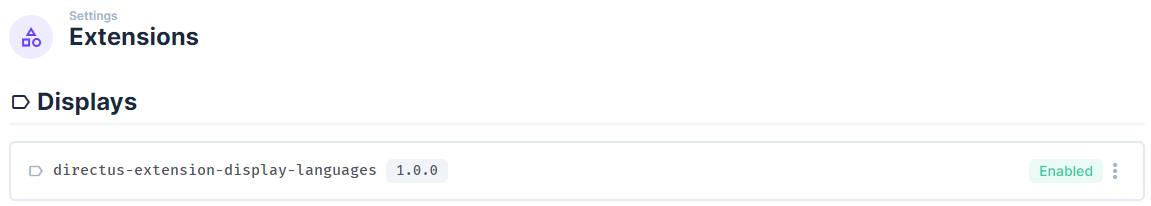
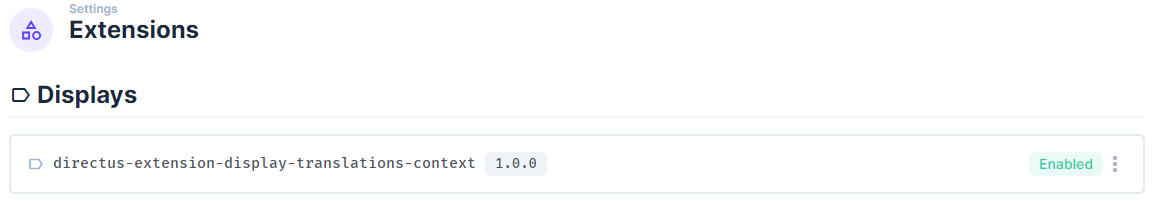
Initial commit of the Directus extension for displaying translations context.

diff --git a/README.md b/README.md
@@ -1,103 +1,33 @@
-# Directus Translations Context Display
+![Démonstration de l'extension](docs/screenshots/directus-extension-display-translations-context-table.png)
 
-Une extension d'affichage optimisée pour le contenu multilingue dans Directus.
+# Directus Display Translations Context
+
+L'extension "Directus Translations Context Display" est une extension d'affichage optimisée pour le contenu multilingue dans Directus. Elle permet d'afficher automatiquement le contenu traduit dans l'interface d'administration de Directus en fonction de critères de sélection de langue avancés.
+
+Cette extension est particulièrement utile pour les projets multilingues où le contenu est traduit dans plusieurs langues et où vous souhaitez afficher automatiquement la traduction correspondant à un pays ou une langue spécifique en provenance d'une autre collection.
 
 ![Extension installée](docs/screenshots/directus-extension-display-translations-context-extensions.png)
 
 ## Table des matières
 
-- [Introduction](#introduction)
 - [Fonctionnalités principales](#fonctionnalités-principales)
-- [Prérequis](#prérequis)
-  - [Collection Languages](#1-collection-languages)
-  - [Collection Countries](#2-collection-countries)
-  - [Collection Pages_Base](#3-collection-pages_base)
-  - [Collection Pages](#4-collection-pages)
-  - [Collection de traductions](#5-collection-de-traductions)
 - [Installation](#installation)
   - [Étapes d'installation](#étapes-dinstallation)
   - [Arborescence des dossiers](#arborescence-des-dossiers)
 - [Configuration](#configuration)
   - [Options principales](#options-principales)
+- [Prérequis](#prérequis)
+  - [Collection Languages](#1-collection-languages)
+  - [Collection Countries](#2-collection-countries)
+  - [Votre collection exemple Pages](#4-collection-pages)
+  - [Votre collection exemple Pages_translations || Pages_Base](#3-collection-pages_base)
+  - [Directus setting translation](#5-collection-de-traductions)
 - [Utilisation](#utilisation)
   - [Cas d'utilisation typique](#cas-dutilisation-typique)
   - [Personnalisation de l'affichage](#personnalisation-de-laffichage)
   - [Exemples de configuration](#exemples-de-configuration)
 - [Fonctionnement technique](#fonctionnement-technique)
   - [Architecture](#architecture)
-
-## Introduction
-
-L'extension "Directus Translations Context Display" est une extension d'affichage optimisée pour le contenu multilingue dans Directus. Elle permet d'afficher automatiquement le contenu traduit dans l'interface d'administration de Directus en fonction de critères de sélection de langue avancés.
-
-Cette extension est particulièrement utile pour les projets multilingues où le contenu est traduit dans plusieurs langues et où vous souhaitez afficher automatiquement la traduction correspondant à un pays ou une langue spécifique.
-
-![Démonstration de l'extension](docs/screenshots/directus-extension-display-translations-context-table.png)
-
-## Prérequis
-
-Pour utiliser pleinement cette extension, vous devez configurer les collections suivantes dans votre projet Directus :
-
-### 1. Collection Languages
-
-Cette collection stocke les langues disponibles dans votre système.
-
-![Collection de langues](docs/screenshots/directus-extension-display-translations-context-language-collection.png)
-
-**Champs recommandés :**
-
-- `code` : Code de langue (ex: fr-FR, en-US)
-- `name` : Nom de la langue
-- `active` : État d'activation
-
-![Champs de la collection languages](docs/screenshots/directus-extension-display-translations-context-languages-collection-fields.png)
-
-### 2. Collection Countries
-
-Cette collection stocke les pays et leurs paramètres régionaux.
-
-![Collection de pays](docs/screenshots/directus-extension-display-translations-context-country-collection.png)
-
-**Champs recommandés :**
-
-- `code` : Code du pays (ex: FR, US)
-- `name` : Nom du pays
-- `defaultLanguage` : Relation vers la langue par défaut pour ce pays
-
-![Champs de la collection countries](docs/screenshots/directus-extension-display-translations-context-countries-collection-fields.png)
-
-### 3. Collection Pages_Base
-
-Cette collection sert de modèle pour les pages traduisibles.
-
-![Champs de la collection pages_base](docs/screenshots/directus-extension-display-translations-context-pages_base-collection-fields.png)
-
-**Champs recommandés :**
-
-- `country_code` : Relation vers un pays
-- Autres champs spécifiques à votre contenu
-
-### 4. Collection Pages
-
-Cette collection contient les pages avec leurs traductions.
-
-![Collection de pages](docs/screenshots/directus-extension-display-translations-context-pages-collection-fields.png)
-
-**Champs recommandés :**
-
-- `translations` : Champ de type "translations" lié à la collection de traductions
-- Autres champs spécifiques à votre contenu
-
-### 5. Collection de traductions
-
-Cette collection stocke les traductions pour chaque élément traduisible.
-
-![Collection de traductions](docs/screenshots/directus-extension-display-translations-context-translations-collection.png)
-
-**Champs recommandés :**
-
-- `languages_code` : Relation vers une langue
-- `title`, `description`, etc. : Champs contenant le contenu traduit
 
 ## Fonctionnalités principales
 
@@ -218,6 +148,71 @@ Lors de la configuration de l'extension dans l'interface Directus, vous disposez
 
    - Active/désactive le menu de sélection de langue
    - Permet aux utilisateurs de voir toutes les traductions disponibles
+
+## Prérequis
+
+Pour utiliser pleinement cette extension, vous devez configurer les collections suivantes dans votre projet Directus :
+
+### 1. Collection Languages
+
+Cette collection stocke les langues disponibles dans votre système.
+
+![Collection de langues](docs/screenshots/directus-extension-display-translations-context-language-collection.png)
+
+**Champs recommandés :**
+
+- `code` : Code de langue (ex: fr-FR, en-US)
+- `name` : Nom de la langue
+- `active` : État d'activation
+
+![Champs de la collection languages](docs/screenshots/directus-extension-display-translations-context-languages-collection-fields.png)
+
+### 2. Collection Countries
+
+Cette collection stocke les pays et leurs paramètres régionaux.
+
+![Collection de pays](docs/screenshots/directus-extension-display-translations-context-country-collection.png)
+
+**Champs recommandés :**
+
+- `code` : Code du pays (ex: FR, US)
+- `name` : Nom du pays
+- `defaultLanguage` : Relation vers la langue par défaut pour ce pays
+
+![Champs de la collection countries](docs/screenshots/directus-extension-display-translations-context-countries-collection-fields.png)
+
+### 4. Collection Pages
+
+Cette collection contient les pages avec leurs traductions.
+
+![Collection de pages](docs/screenshots/directus-extension-display-translations-context-pages-collection-fields.png)
+
+**Champs recommandés :**
+
+- `translations` : Champ de type "translations" lié à la collection de traductions
+- Autres champs spécifiques à votre contenu
+
+### 3. Collection Pages_Base
+
+Cette collection sert de modèle pour les pages traduisibles.
+
+![Champs de la collection pages_base](docs/screenshots/directus-extension-display-translations-context-pages_base-collection-fields.png)
+
+**Champs recommandés :**
+
+- `country_code` : Relation vers un pays
+- Autres champs spécifiques à votre contenu
+
+### 5. Collection de traductions
+
+Cette collection stocke les traductions pour chaque élément traduisible.
+
+![Collection de traductions](docs/screenshots/directus-extension-display-translations-context-translations-collection.png)
+
+**Champs recommandés :**
+
+- `languages_code` : Relation vers une langue
+- `title`, `description`, etc. : Champs contenant le contenu traduit
 
 ## Utilisation
 
